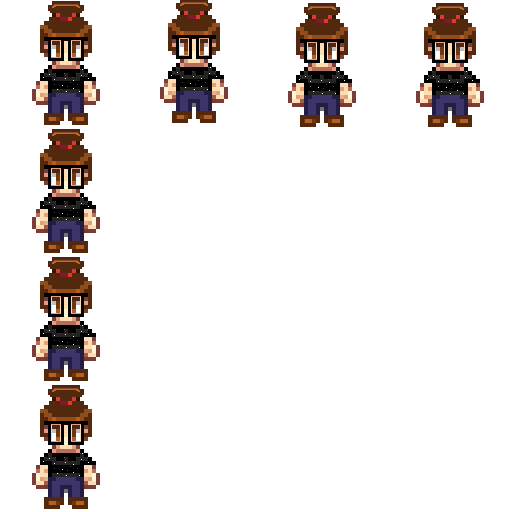
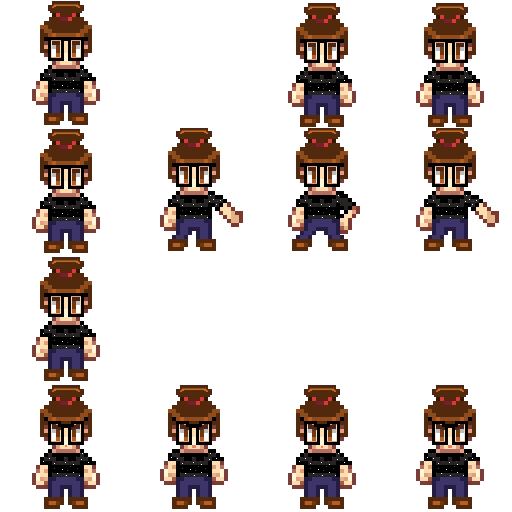
battle improvements animation

diff --git a/battle.py b/battle.py
@@ -18,7 +18,7 @@ class Battle():
         self.end_battle = end_battle
         self.sounds = sounds
         self.display_surface = pygame.display.get_surface()
-        self.battle_timer = Timer(2000, autostart = True)
+        self.battle_timer = Timer(1, autostart = True)
         self.test = []
         self.shadow = import_image('.', 'graphics', 'shadow', 'shadow')
 
@@ -70,15 +70,31 @@ class Battle():
 
 
             # character animation
-            self.frame_index += ANIMATION_SPEED * dt 
-            character_surf = self.character_frames['up' if self.error_mode else 'left'][int(self.frame_index % 4)] # animation
+            # self.frame_index += ANIMATION_SPEED * dt 
+            # character_surf = self.character_frames['up' if self.error_mode else 'left'][int(self.frame_index % 4)] # animation
             # player
             player_surf = self.player_frames
             
             # movement
-            self.x = self.move_x(dt, 30, 30)
-            self.y = self.move_y(dt, 50, 30)
+            if self.current_question < self.qtd_questions / 3:
+                self.frame_index += ANIMATION_SPEED * dt 
+                self.x = self.move_x(dt, 30, 30)
+                self.y = self.move_y(dt, 50, 30)
+            elif self.current_question < self.qtd_questions / 2 + 1:
+                self.frame_index += 2 * ANIMATION_SPEED * dt 
+                self.x = self.move_x(dt, 60, 35)
+                self.y = self.move_y(dt, 100, 35)
+            elif self.current_question < self.qtd_questions / 2 + 3:
+                self.frame_index += 3 * ANIMATION_SPEED * dt 
+                self.x = self.move_x(dt, 90, 40)
+                self.y = self.move_y(dt, 150, 40)
+            else: # 9 e 10
+                self.frame_index += 4 * ANIMATION_SPEED * dt 
+                self.x = self.move_x(dt, 120, 50)
+                self.y = self.move_y(dt, 200, 50)
+
             self.character_rect = pygame.Rect(853 + self.x, 137 + self.y, 192, 192)
+            character_surf = self.character_frames['up' if self.error_mode else 'left'][int(self.frame_index % 4)] # animation
 
             self.display_surface.blit(pygame.transform.scale(character_surf,(192,192)), self.character_rect)
             self.display_surface.blit(pygame.transform.scale(self.shadow, (78,30)), self.character_rect.midbottom + vector(-36,-20))
@@ -198,8 +214,8 @@ class Battle():
 
     def draw_dialog(self, dt):
         # quando a pessoa erra o personagem fala um dos dialogos de erro
-        text = self.text_format(WRONGS_SPEAKS[self.current_question], 30)
         if self.error_mode:
+            text = self.text_format(WRONGS_SPEAKS[self.current_question], 30)
             if self.counter < len(WRONGS_SPEAKS[self.current_question]) * self.speed:
                 self.counter += int(5000 * dt)
             elif self.counter >= len(WRONGS_SPEAKS[self.current_question]) * self.speed:
@@ -209,6 +225,7 @@ class Battle():
 
         # quando a pessoa acerta o personagem fala o dialogo de acerto
         else:
+            text = self.text_format(CORRECTS_SPEAKS[self.current_question], 30)
             if self.counter < len(CORRECTS_SPEAKS[self.current_question]) * self.speed:
                 self.counter += int(5000 * dt)
             elif self.counter >= len(CORRECTS_SPEAKS[self.current_question]) * self.speed:
